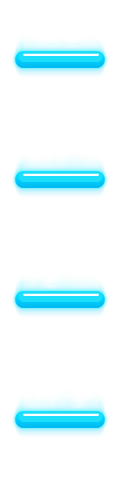
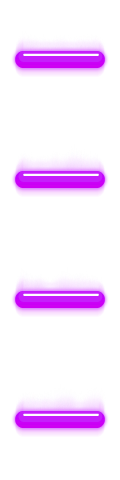
Changed each color when poping note

diff --git a/WimyLime/player.js b/WimyLime/player.js
@@ -116,7 +116,7 @@ function onMissNote()
 	scoreData["miss"]++;
 }
 
-function judge(notes, x)
+function judge(notes, x, pop_image)
 {
 	var index = findClosestNoteIndex(notes);
 	
@@ -127,7 +127,7 @@ function judge(notes, x)
 		notes.shift();
 		
 		var y = CANVAS_HEIGHT - NOTE_TOUCH_CHECK_BAR_POSITION;
-		addImageAnimationObjects(x, y, image_note1pop); 
+		addImageAnimationObjects(x, y, pop_image); 
 		addTextAnimationObjects(x, y + 2, "Cool", 20);
 		
 		onHitNote();
@@ -136,22 +136,22 @@ function judge(notes, x)
 
 function onGamePad1()
 {
-	judge(notes.pad1, 60);
+	judge(notes.pad1, 60, image_note1pop);
 }
 
 function onGamePad2()
 {
-	judge(notes.pad2, 180);
+	judge(notes.pad2, 180, image_note2pop);
 }
 
 function onGamePad3()
 {
-	judge(notes.pad3, 300);
+	judge(notes.pad3, 300, image_note3pop);
 }
 
 function onGamePad4()
 {
-	judge(notes.pad4, 420);
+	judge(notes.pad4, 420, image_note4pop);
 }
 
 function drawNoteImage(context, img, centerX, centerY)
